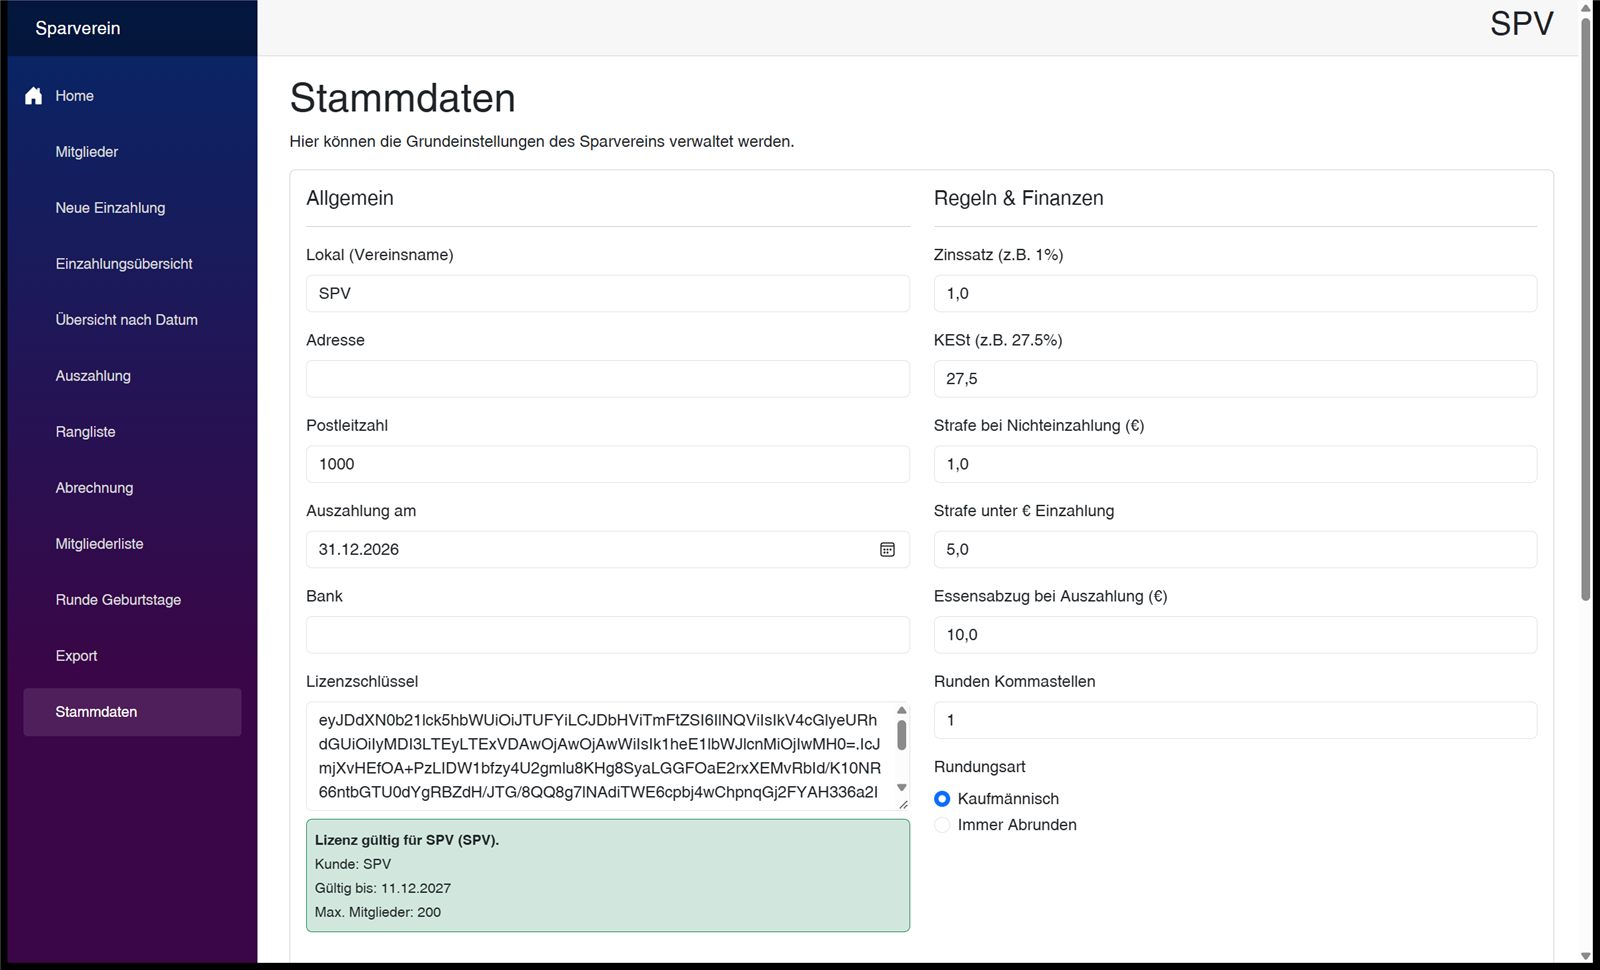
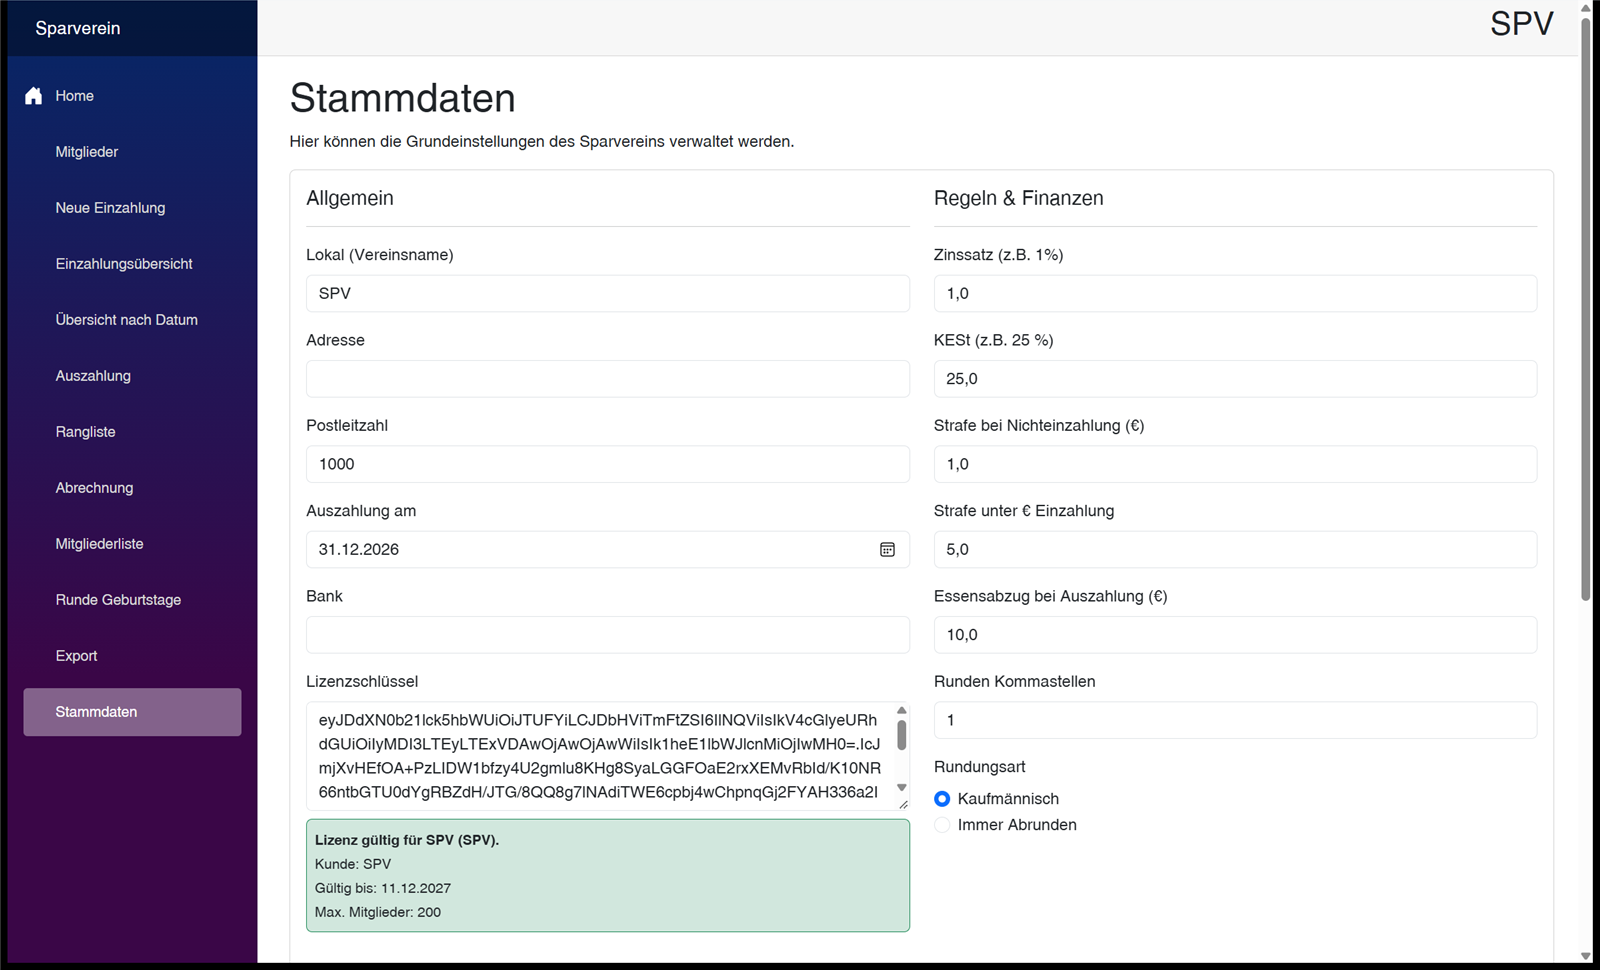
Benutzerhandbuch für Version 1.0.3

Changed region(s): [[0.0, 0.7113, 0.1562, 0.7732], [0.625, 0.3402, 0.6562, 0.3711]]

diff --git a/Benutzerhandbuch.md b/Benutzerhandbuch.md
@@ -1,4 +1,6 @@
-# Sparverein – Benutzerhandbuch
+![Sparvereinsverwaltung](bilder/logo.png)
+
+# Benutzerhandbuch
 
 Dieses Handbuch beschreibt die Bedienung der Sparvereinsverwaltung für Kassiere und Vorstände.
 
@@ -23,8 +25,10 @@ Voraussetzung: Windows 10 (ab Version 2004) oder Windows 11. Sonst muss nichts i
 4. Das Programm ist sofort mit der **kostenlosen Lizenz** freigeschaltet (siehe Kapitel 2).
    Weiter mit den Stammdaten.
 
-Die **Startseite** zeigt die installierte Version, den Knopf **Nach Updates suchen** (Kapitel 9)
-und die wichtigsten Sicherheitshinweise. Links ist das Menü mit allen Seiten.
+Die **Startseite** zeigt die installierte Version, den Knopf **Nach Updates suchen** (Kapitel 9),
+den Knopf **Bedienungsanleitung** und die wichtigsten Sicherheitshinweise. Links ist das Menü mit
+allen Seiten. Die Bedienungsanleitung (dieses Handbuch mit Bildern) öffnet sich im Internet-Browser;
+der Link steht auch unten in der Fußzeile jeder Seite.
 
 ![Startseite](bilder/startseite.png)
 
@@ -77,7 +81,7 @@ Für eine Lizenz oder eine neuere Version des Programms einfach an **office@auto
 | Feld                              | Bedeutung                                                                          |
 |-----------------------------------|------------------------------------------------------------------------------------|
 | Zinssatz (%)                      | Jahreszinssatz, z. B. `1` für 1 %                                                   |
-| KESt (%)                          | Kapitalertragsteuer, in Österreich `27,5`                                           |
+| KESt (%)                          | Kapitalertragsteuer, in Österreich `25` für Zinsen aus Spareinlagen bei Banken      |
 | Strafe bei Nichteinzahlung (€)    | Betrag, der pro „Straf-Termin“ abgezogen wird                                       |
 | Strafe unter € Einzahlung         | Wer an einem Straf-Termin **weniger** als diesen Betrag einzahlt, bekommt die Strafe |
 | Essensabzug bei Auszahlung (€)    | Pauschale, die bei der Auszahlung einbehalten wird (z. B. Abschlussessen)           |
@@ -211,6 +215,11 @@ Menü **Abrechnung**.
   Zinsgewinn bzw. -verlust des Vereins.
 - **Endabrechnung Verein:** Zinsdifferenz + Strafen ± Rundung + bis zu 5 weitere Einnahmen −
   bis zu 5 weitere Ausgaben = **Gewinn für den Verein**.
+
+Weiter unten auf der Seite: Zinsvergleich und Endabrechnung Verein mit den Feldern für zusätzliche
+Einnahmen und Ausgaben (im Beispiel sind noch keine Bankzinsen eingetragen, daher die negative Zinsdifferenz):
+
+![Zinsvergleich und Endabrechnung Verein](bilder/endabrechnung-verein.png)
 
 Alle Eingaben auf dieser Seite werden automatisch (ca. 1 Sekunde nach der Eingabe) in der
 Vereinsdatenbank gespeichert. **Drucken** gibt die Abrechnung aus.
